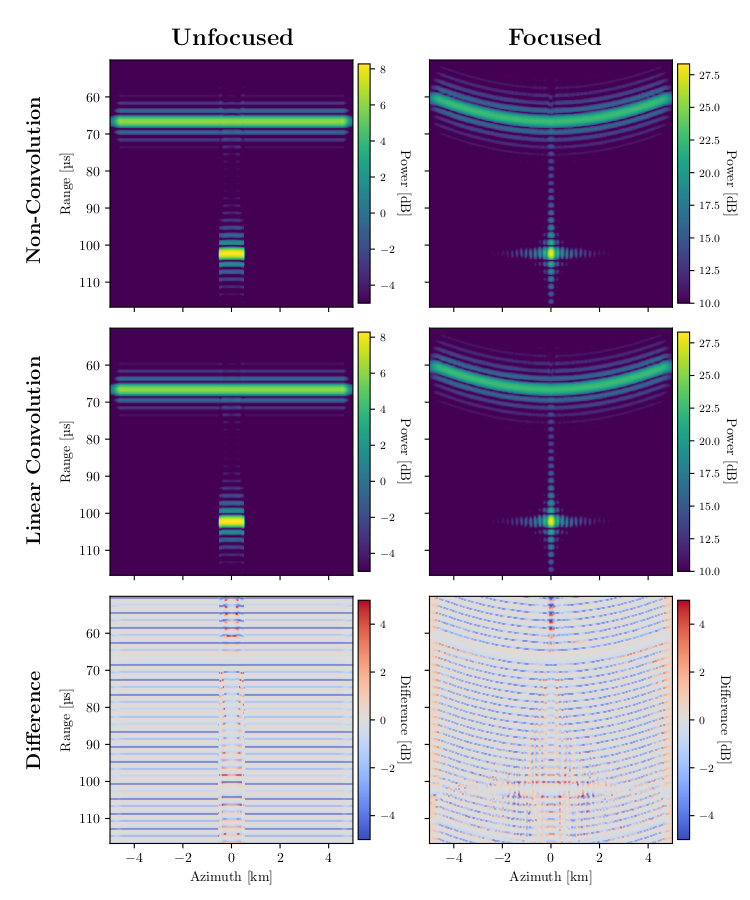
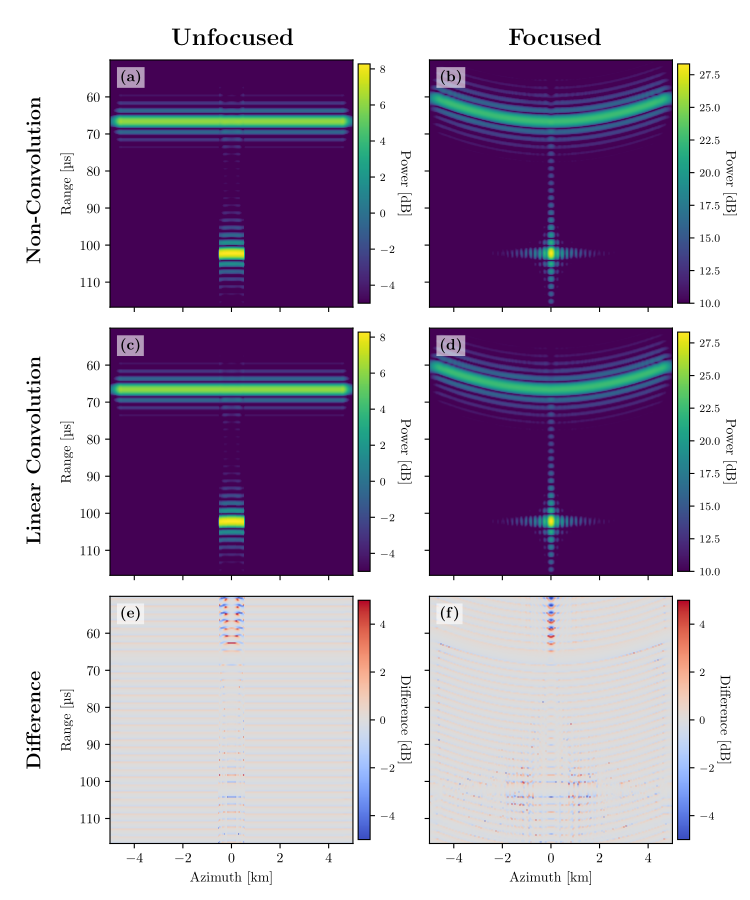
Some updates to convolution comparison figure

diff --git a/src/PYTHON/rdr_plots.py b/src/PYTHON/rdr_plots.py
@@ -600,6 +600,14 @@ def TGRS_rdrgrm_conv(params, directory, focused_files, unfocused_files, names):
     axes[row_idx][1].set_xlabel("Azimuth [km]")
     axes[row_idx][0].set_ylabel("Range [µs]")
 
+    # subplot labels
+    labels = ["(a)", "(b)", "(c)", "(d)", "(e)", "(f)"]
+    fontsizes = (11, 11, 11, 11, 11, 11)
+    for a, label, fs in zip(axes.flatten(), labels, fontsizes):
+        a.text(0.04, 0.96, label, transform=a.transAxes, fontsize=fs,
+            fontweight="bold", va="top", ha="left", color="black",
+            bbox=dict(facecolor="white", alpha=0.6, edgecolor="none", pad=2))
+
     plt.tight_layout(rect=[0.06, 0, 1, 0.95])
     plt.savefig("TGRS-CONV-COMP.png")
     plt.savefig("TGRS-CONV-COMP.pgf")
@@ -607,7 +615,7 @@ def TGRS_rdrgrm_conv(params, directory, focused_files, unfocused_files, names):
 
 
 def TGRS_KOR1_SYN(rdrgrm, focused, rx_win, OBS, mola, aeroid, plotpar, geometry=None,
-                   trc_st=750, trc_en=1200,
+                   trc_st=750, trc_en=1200, c=299.792458,
                    rdrmin=22, rdrmax=35, focmin=35, focmax=45,
                    aspect="auto", ymin=314.15, ymax=318):
 
@@ -615,7 +623,7 @@ def TGRS_KOR1_SYN(rdrgrm, focused, rx_win, OBS, mola, aeroid, plotpar, geometry=
 
     extent = [
         geometry['LAT'].iloc[0], geometry['LAT'].iloc[-1],
-        np.min(rx_win)/1e3 + 7.5, np.min(rx_win)/1e3,
+        (np.min(rx_win) + 7.5e3)/c, (np.min(rx_win))/c,
     ]
 
     fig, ax = plt.subplots(3, 1, figsize=(10, 6), sharex=True, constrained_layout=True)
@@ -630,12 +638,12 @@ def TGRS_KOR1_SYN(rdrgrm, focused, rx_win, OBS, mola, aeroid, plotpar, geometry=
                 continue
             else:
                 if i == 0:
-                    ax[0].plot(lat_subsrf, depth_subsrf, color="red", linewidth=1, label="Subsurface Layers")
+                    ax[0].plot(lat_subsrf, (depth_subsrf*1e3)/c, color="red", linewidth=1, label="Subsurface Layers")
                 else:
-                    ax[0].plot(lat_subsrf, depth_subsrf, color="red", linewidth=1)
+                    ax[0].plot(lat_subsrf, (depth_subsrf*1e3)/c, color="red", linewidth=1)
                 i += 1
 
-    ax[0].plot(mola['LAT'], mola['SRANGE']/1e3, color="black", linewidth=1, label="Surface Topography")
+    ax[0].plot(mola['LAT'], mola['SRANGE']/c, color="black", linewidth=1, label="Surface Topography")
     ax[0].legend()
 
     # rdrgrms
@@ -645,7 +653,7 @@ def TGRS_KOR1_SYN(rdrgrm, focused, rx_win, OBS, mola, aeroid, plotpar, geometry=
     plt.colorbar(im2, label="Power [dB]", pad=0.01)
 
     # labels
-    for a in ax: a.set_ylabel("Range [km]")
+    for a in ax: a.set_ylabel("Range [$\mu$s]")
     ax[2].set_xlabel("Latitude [deg]")
 
     labels = ["(a) 2D Slice","(b) Unfocused", "(c) Focused"]
@@ -659,9 +667,9 @@ def TGRS_KOR1_SYN(rdrgrm, focused, rx_win, OBS, mola, aeroid, plotpar, geometry=
             bbox=dict(facecolor="white", alpha=0.6, edgecolor="none", pad=2))
 
     # cropping
-    for a in ax: a.set_ylim(ymax, ymin)
+    for a in ax: a.set_ylim((ymax*1e3)/c, (ymin*1e3)/c)
 
     # export
-    plt.savefig("figures/TGRS-KOR2-SYN.png")
-    plt.savefig("figures/TGRS-KOR2-SYN.pgf")
+    plt.savefig("figures/TGRS-KOR1-SYN.png")
+    plt.savefig("figures/TGRS-KOR1-SYN.pgf")
     plt.close()

diff --git a/examples/UNIT_TESTS/convolutionCompare/plot.py b/examples/UNIT_TESTS/convolutionCompare/plot.py
@@ -14,48 +14,3 @@ with open("inputs/NoConv.pkl", 'rb') as hdl:
     params = pickle.load(hdl)
 
 rp.TGRS_rdrgrm_conv(params, directory, focused_files, unfocused_files, names)
-
-"""
-# 5 rows: 3 methods + 2 diff rows, 2 columns: unfocused and focused
-fig, axes = plt.subplots(5, 2, figsize=(15, 18))
-
-# Load original (no convolution) data as baseline for difference computation
-rdrgrm_unf_orig = np.load(directory + unfocused_files[0])['rdrgrm']
-rdrgrm_foc_orig = np.load(directory + focused_files[0])['focused']
-
-for i, (unf_file, foc_file, name) in enumerate(zip(unfocused_files, focused_files, names)):
-
-    rdrgrm_unf = np.load(directory + unf_file)['rdrgrm']
-    rdrgrm_foc = np.load(directory + foc_file)['focused']
-
-    extent = [-5, 5, 2*(params["rx_window_offset_m"] + params["rx_window_m"])/299.792458, 
-              2*params["rx_window_offset_m"]/299.792458]
-
-    # Plot unfocused and focused images with colorbars
-    im_unf = axes[i][0].imshow(rdrgrm_unf, aspect='auto', cmap='viridis', interpolation='nearest', vmin=45, extent=extent)
-    axes[i][0].set_title(f"{name} - Unfocused")
-    fig.colorbar(im_unf, ax=axes[i][0])
-
-    im_foc = axes[i][1].imshow(rdrgrm_foc, aspect='auto', cmap='viridis', interpolation='nearest', vmin=60, extent=extent)
-    axes[i][1].set_title(f"{name} - Focused")
-    fig.colorbar(im_foc, ax=axes[i][1])
-
-# Compute and plot differences for the last two rows: Circular-Original and Linear-Original
-for j, conv_idx in enumerate([1, 2]):  # indices for Circular and Linear Convolution
-    # Unfocused difference (no absolute value)
-    lims = 20
-    diff_unf = np.load(directory + unfocused_files[conv_idx])['rdrgrm'] - rdrgrm_unf_orig
-    im_diff_unf = axes[3 + j][0].imshow(diff_unf, aspect='auto', cmap='seismic', interpolation='nearest', vmin=-1*lims, vmax=lims, extent=extent)
-    axes[3 + j][0].set_title(f"{names[conv_idx]} - Original (Difference, Unfocused)")
-    fig.colorbar(im_diff_unf, ax=axes[3 + j][0])
-
-    # Focused difference (no absolute value)
-    diff_foc = np.load(directory + focused_files[conv_idx])['focused'] - rdrgrm_foc_orig
-    im_diff_foc = axes[3 + j][1].imshow(diff_foc, aspect='auto', cmap='seismic', interpolation='nearest', vmin=-1*lims, vmax=lims, extent=extent)
-    axes[3 + j][1].set_title(f"{names[conv_idx]} - Original (Difference, Focused)")
-    fig.colorbar(im_diff_foc, ax=axes[3 + j][1])
-
-plt.tight_layout()
-plt.savefig("ConvolutionComparison.png")
-plt.close()
-"""

diff --git a/examples/KOROLEV/code/plots.py b/examples/KOROLEV/code/plots.py
@@ -63,7 +63,7 @@ ymin, ymax = ku.corrected_ymin_ymax(rdrgrm, aeroid, trc_st, trc_en, correction)
 
 # load in crater interior
 korolev_interior = ku.import_korolev_interior("data/Subsurface/")
-trc, depth = ku.clean_korolev_interior(korolev_interior, aeroid, mola, eps=3.15)
+trc, depth = ku.clean_korolev_interior(korolev_interior, aeroid, mola)
 
 plotpar = {
     'obs': "554201000",
